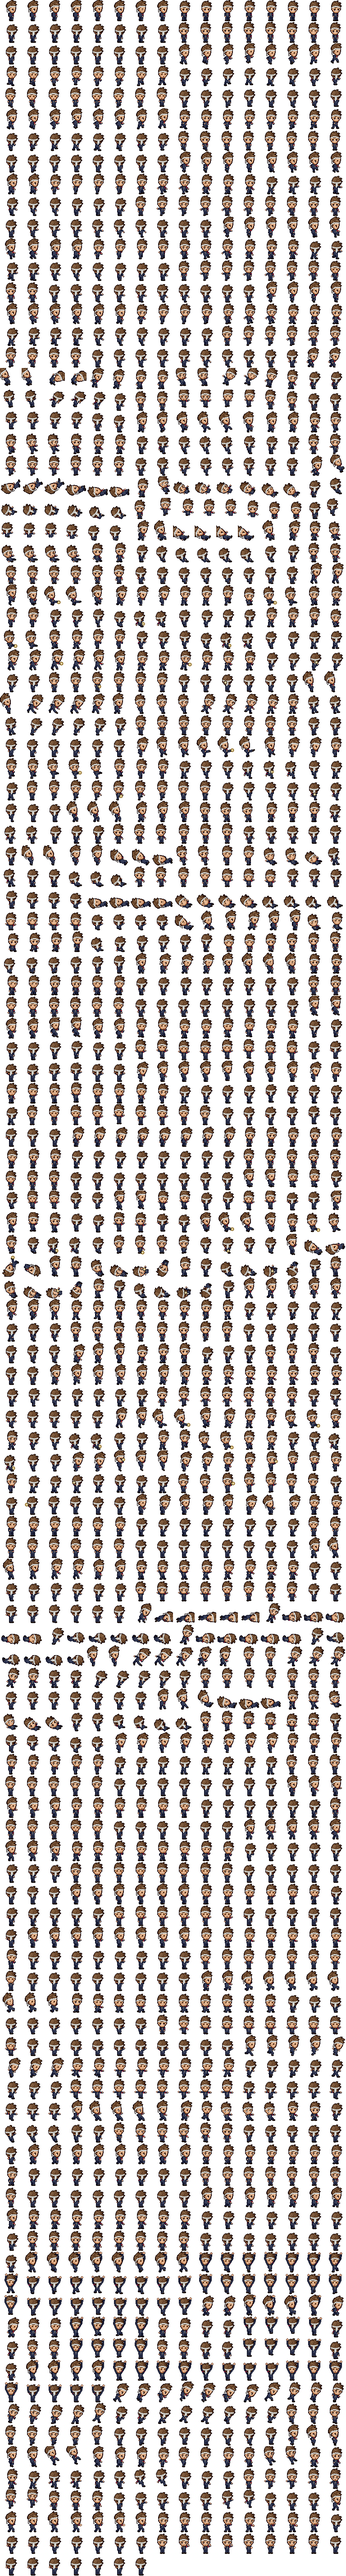
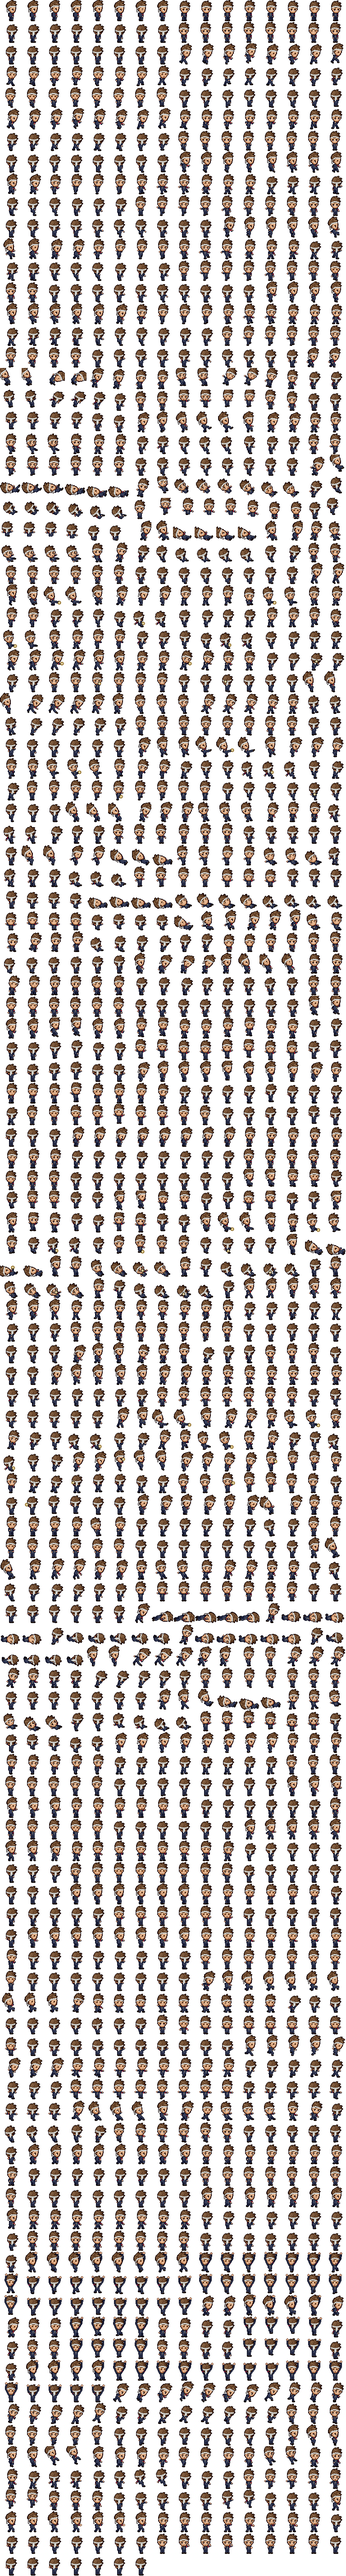
Todo el juego con animaciones Nekketsu de la forja y seis nuevas de Thor
Claude-Session: https://claude.ai/code/session_01VZnykmFcmzswXmttVAAKYW

diff --git a/src/view/NesPlayer.ts b/src/view/NesPlayer.ts
@@ -26,7 +26,7 @@ export function dirOf(dx: number, dy: number, prev: number | null = null): numbe
 /** Seconds of the flight of a knocked down player (the 5 frames of `tumble` at 12 fps) and of getting up (2 frames of `fall_getup` at 8 fps). */
 const TUMBLE_T = 0.42, GETUP_T = 0.25;
 
-const FALLBACK: Record<string, string> = { super: 'shot', spin_kick: 'chilena', chilena: 'shot', air_kick: 'kick_hit', kick_hit: 'shot', jump_rise: 'jump', jump_fall: 'jump', walk: 'run', land: 'idle', trap: 'idle', run_shot: 'shot', pump: 'celebrate', sit: 'idle', laugh: 'celebrate', burla: 'laugh', dive_header: 'header', elbow: 'tackle', slip: 'tumble', guard: 'idle', point: 'idle', taunt: 'laugh', call: 'point', goal_run: 'goal_plane', goal_jump: 'celebrate', banzai: 'celebrate', sprint: 'run', shot_hard: 'shot', goal_plane: 'run', goal_knee: 'slide', skid: 'idle', power: 'land', ready: 'idle', trot: 'run', die: 'hurt', wake: 'lie', jump_wall: 'pounce', sleep: 'lie', scratch: 'sit', dig: 'sit' };
+const FALLBACK: Record<string, string> = { super: 'shot', spin_kick: 'chilena', chilena: 'shot', air_kick: 'kick_hit', kick_hit: 'shot', jump_rise: 'jump', jump_fall: 'jump', walk: 'run', land: 'idle', trap: 'idle', run_shot: 'shot', pump: 'celebrate', sit: 'idle', laugh: 'celebrate', burla: 'laugh', dive_header: 'header', elbow: 'tackle', slip: 'tumble', guard: 'idle', point: 'idle', taunt: 'laugh', call: 'point', goal_run: 'goal_plane', goal_jump: 'celebrate', banzai: 'celebrate', sprint: 'run', shot_hard: 'shot', goal_plane: 'run', goal_knee: 'slide', skid: 'idle', power: 'land', ready: 'idle', nk_dive: 'pounce', nk_banzai: 'celebrate', nk_gallop: 'run', nk_guard: 'bark', nk_flop: 'die', nk_sad: 'howl', trot: 'run', die: 'hurt', wake: 'lie', jump_wall: 'pounce', sleep: 'lie', scratch: 'sit', dig: 'sit' };
 /** What the view knows that the core does not: he has just landed from a jump or taken the ball down (seconds since), and he was running when he shot. */
 /** From this speed of the ball a shot is a hard one (tuning.ts, `shotHard.v`). */
 const HARD_SHOT = T.shotHard.v + T.hardV * 0.45;
@@ -40,29 +40,30 @@ export function nesAnim(p: Player, m: Match | null, isThor: boolean, hint: AnimH
     switch (p.state) {
       // the save: a dog's pounce at the ball; with it in his mouth he wags; he kicks it away with a snap of the jaws
       // the save: a dog's pounce at a low ball, and a leap straight up at a high one
-      case 'dive': return { name: m && m.ball.z > 22 ? 'jump_wall' : 'pounce', loop: false, t };
+      case 'dive': return { name: m && m.ball.z > 22 ? 'jump_wall' : 'nk_dive', loop: false, t };
       case 'hold': return { name: 'wag', loop: true, t };
       case 'kick': return { name: 'bite', loop: false, t };
       // a goal of the family: mad circles in front of his goal
-      case 'celebrate': return cele?.move === 'zoom' ? { name: 'run', loop: true, t } : Math.floor((m?.t ?? 0) / 1.2) % 3 === 2 ? { name: 'jump', loop: false, t: ((m?.t ?? 0) % 1.2) / 2 } : { name: 'celebrate', loop: true, t };
+      case 'celebrate': return cele?.move === 'zoom' ? { name: 'run', loop: true, t } : Math.floor((m?.t ?? 0) / 1.6) % 3 === 2 ? { name: 'celebrate', loop: true, t } : { name: 'nk_banzai', loop: true, t };
       // his power: he barks while it loads and then he is off with the ball
       case 'special': return { name: m?.special?.shooter === p.id ? 'bark' : 'run', loop: true, t };
       // after a dive he is flat on the grass for a moment
       // after a dive he is flat on the grass for a moment, and gets up shaking himself awake
       case 'getup': return { name: 'wake', loop: false, t };
       // a goal against: he howls at the sky
-      case 'sad': return { name: 'howl', loop: true, t };
+      // a goal against: he howls at the sky, and then lies down with his head between his paws
+      case 'sad': return { name: t < 1.2 ? 'howl' : 'nk_sad', loop: true, t };
       // knocked over he goes flat on his side; a shove only makes him yelp
-      case 'tumble': case 'dizzy': return { name: 'die', loop: false, t };
+      case 'tumble': case 'dizzy': return { name: 'nk_flop', loop: false, t };
       case 'stagger': case 'bump': return { name: 'hurt', loop: false, t };
       case 'slide': return { name: 'jump', loop: false, t };
       default: {
         // he walks, trots and runs, each at its speed
-        if (moving) return { name: speed < 42 ? 'walk' : speed < 95 ? 'trot' : 'run', loop: true, t };
+        if (moving) return { name: speed < 42 ? 'walk' : speed < 95 ? 'trot' : 'nk_gallop', loop: true, t };
         if (owns) return { name: 'wag', loop: true, t };
         // on guard: he barks when a rival comes at his goal with the ball
         const foe = m && m.ball.owner !== null ? m.players.find((q) => q.id === m.ball.owner) : undefined;
-        if (foe && foe.team !== p.team && Math.abs(foe.x - p.x) < 220) return { name: 'bark', loop: true, t };
+        if (foe && foe.team !== p.team && Math.abs(foe.x - p.x) < 220) return { name: 'nk_guard', loop: true, t };
         // the ball is at the other end: he sits and waits, wagging; when it comes back he is up
         // (and if it stays away he scratches, digs a little and in the end falls asleep)
         if (m && m.phase === 'play' && Math.abs(m.ball.x - p.x) > 520) return { name: t < 5 ? 'sit' : t < 6.6 ? 'scratch' : t < 11 ? 'sit' : t < 13 ? 'dig' : t < 16 ? 'sit' : 'sleep', loop: true, t };
